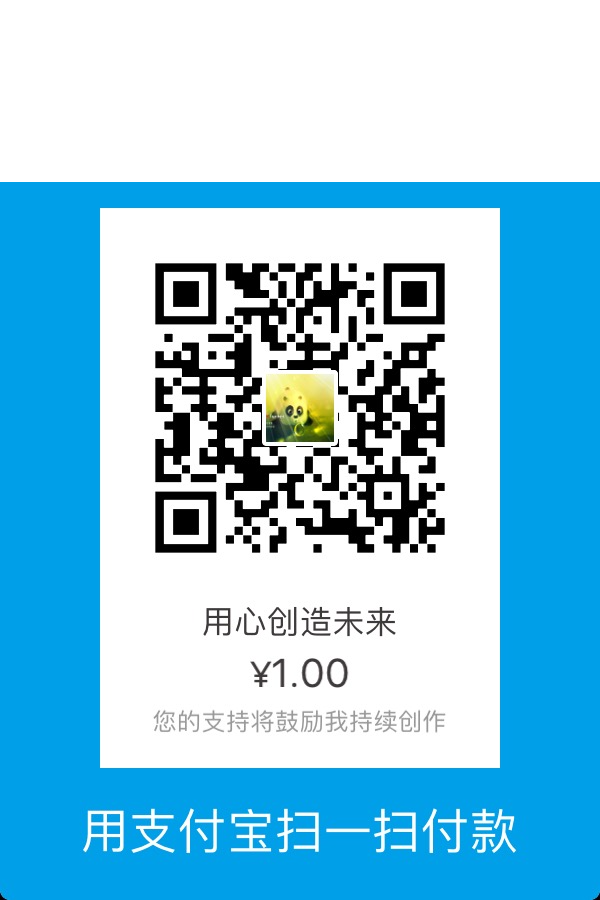
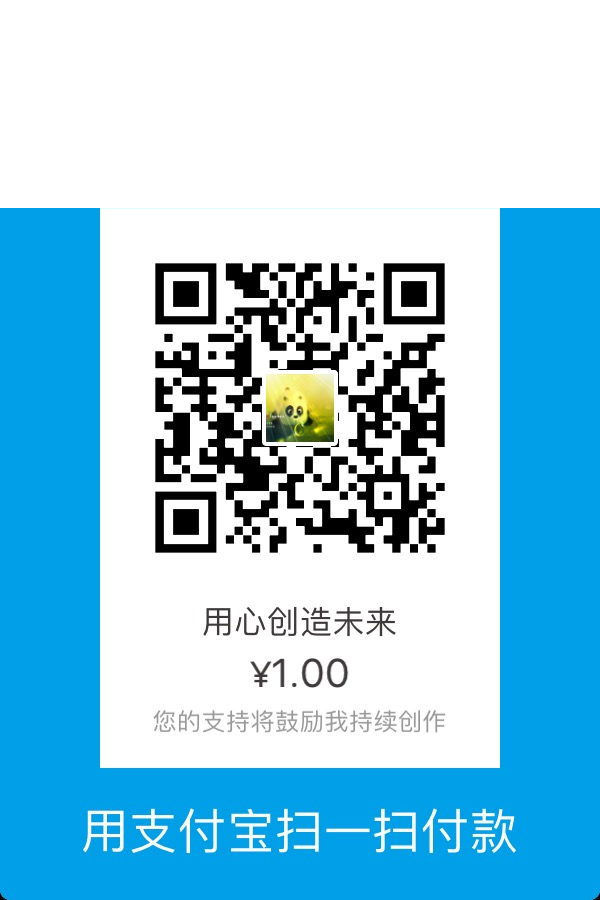
Site updated: 2016-11-17 16:46:47

Changed region(s): [[0.0, 0.1867, 1.0, 0.2489]]

diff --git a/2016/11/16/hello-world/index.html b/2016/11/16/hello-world/index.html
@@ -393,13 +393,13 @@ Quick">
     <div id="QR" style="display: none;">
       
         <div id="wechat" style="display: inline-block">
-          <img id="wechat_qr" src="/images/wechat-reward-image.png" alt="柴亚航 WeChat Pay"/>
+          <img id="wechat_qr" src="/images/WeChatPay.png" alt="柴亚航 WeChat Pay"/>
           <p>微信打赏</p>
         </div>
       
       
         <div id="alipay" style="display: inline-block">
-          <img id="alipay_qr" src="/images/alipay-reward-image.png" alt="柴亚航 Alipay"/>
+          <img id="alipay_qr" src="/images/AliPay.png" alt="柴亚航 Alipay"/>
           <p>支付宝打赏</p>
         </div>
       

diff --git a/2016/11/16/仓央嘉措情诗/index.html b/2016/11/16/仓央嘉措情诗/index.html
@@ -385,13 +385,13 @@
     <div id="QR" style="display: none;">
       
         <div id="wechat" style="display: inline-block">
-          <img id="wechat_qr" src="/images/wechat-reward-image.png" alt="柴亚航 WeChat Pay"/>
+          <img id="wechat_qr" src="/images/WeChatPay.png" alt="柴亚航 WeChat Pay"/>
           <p>微信打赏</p>
         </div>
       
       
         <div id="alipay" style="display: inline-block">
-          <img id="alipay_qr" src="/images/alipay-reward-image.png" alt="柴亚航 Alipay"/>
+          <img id="alipay_qr" src="/images/AliPay.png" alt="柴亚航 Alipay"/>
           <p>支付宝打赏</p>
         </div>
       

diff --git a/2016/11/16/关于我/index.html b/2016/11/16/关于我/index.html
@@ -385,13 +385,13 @@
     <div id="QR" style="display: none;">
       
         <div id="wechat" style="display: inline-block">
-          <img id="wechat_qr" src="/images/wechat-reward-image.png" alt="柴亚航 WeChat Pay"/>
+          <img id="wechat_qr" src="/images/WeChatPay.png" alt="柴亚航 WeChat Pay"/>
           <p>微信打赏</p>
         </div>
       
       
         <div id="alipay" style="display: inline-block">
-          <img id="alipay_qr" src="/images/alipay-reward-image.png" alt="柴亚航 Alipay"/>
+          <img id="alipay_qr" src="/images/AliPay.png" alt="柴亚航 Alipay"/>
           <p>支付宝打赏</p>
         </div>
       

diff --git a/css/main.css b/css/main.css
@@ -1797,7 +1797,7 @@ pre .javascript .function {
   width: 4px;
   height: 4px;
   border-radius: 50%;
-  background: #fffa6e;
+  background: #c82f38;
 }
 .links-of-blogroll {
   font-size: 13px;
